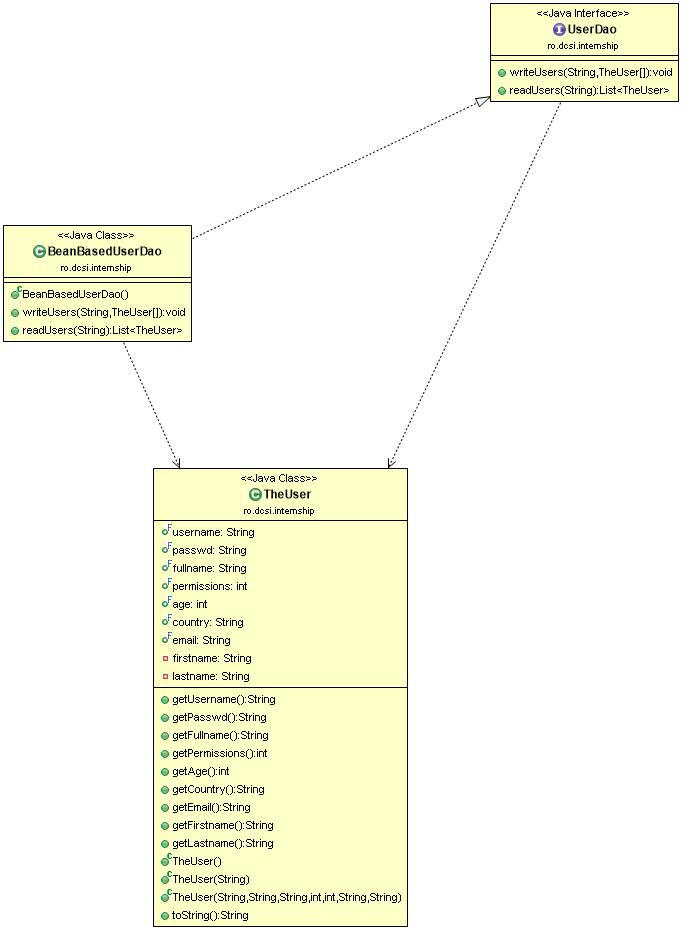
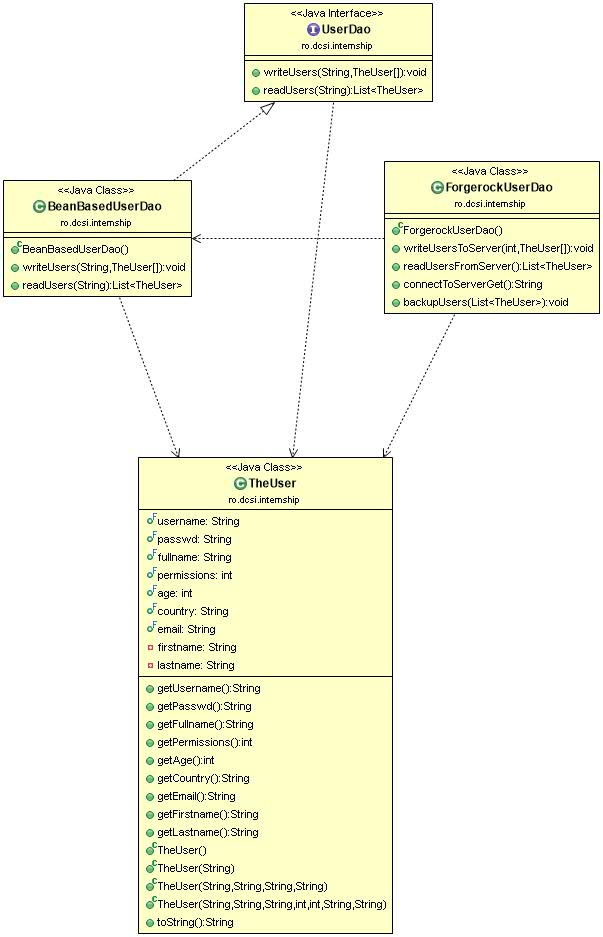
repetitive tests

diff --git a/src/main/java/ro/dcsi/internship/ForgerockUserDao.java b/src/main/java/ro/dcsi/internship/ForgerockUserDao.java
@@ -24,6 +24,15 @@ import java.util.List;
  * Created by Cristi on 27-Jul-17.
  */
 public class ForgerockUserDao {
+  private String serverUrl;
+  private String serverUsername;
+  private String serverPassword;
+
+  public ForgerockUserDao(String serverUrl, String serverUsername, String serverPassword) {
+    this.serverUrl = serverUrl;
+    this.serverUsername = serverUsername;
+    this.serverPassword = serverPassword;
+  }
 
   public void writeUsersToServer(int idStart, TheUser... users) {
     List<TheUser> theUserList = Arrays.asList(users);
@@ -31,8 +40,9 @@ public class ForgerockUserDao {
     int start = idStart;
     try {
       for (int i = start, j = 0; j < theUserList.size() && i < stop; j++, i++) {
+        String id = theUserList.get(j).id;
         JSONObject jsonObject = new JSONObject();
-        jsonObject.put("id", i);
+        jsonObject.put("id", id);
         jsonObject.put("mail", theUserList.get(j).getEmail());
         jsonObject.put("sn", theUserList.get(j).getLastname());
         jsonObject.put("givenName", theUserList.get(j).getFirstname());
@@ -40,15 +50,15 @@ public class ForgerockUserDao {
         String jsonResult = jsonObject.toString();
         StringEntity jsonEntity = new StringEntity(jsonResult);
 
-        String url = "http://localhost:8080/openidm/managed/user/" + i;
+        String url = serverUrl+"openidm/managed/user/" + id;
 
         HttpClient client = HttpClientBuilder.create().build();
         HttpPut request = new HttpPut(url);
         request.addHeader("Content-Type", "application/json");
         request.addHeader("Accept", "application/json");
         request.addHeader("If-None-Match", "*");
-        request.addHeader("X-OpenIDM-Username", "openidm-admin");
-        request.addHeader("X-OpenIDM-Password", "openidm-admin");
+        request.addHeader("X-OpenIDM-Username", serverUsername);
+        request.addHeader("X-OpenIDM-Password", serverPassword);
         request.addHeader("X-Requested-With", "Swagger-UI");
         request.setEntity(jsonEntity);
 
@@ -86,15 +96,15 @@ public class ForgerockUserDao {
   }
 
   public String connectToServerGet() {
-    String url = "http://localhost:8080/openidm/managed/user?_queryId=query-all";
+    String url = serverUrl+"/openidm/managed/user?_queryId=query-all";
 
     HttpClient client = HttpClientBuilder.create().build();
     HttpGet request = new HttpGet(url);
 
     request.addHeader("Accept", "application/json");
     request.addHeader("X-Requested-With", "Swagger-UI");
-    request.addHeader("X-OpenIDM-Username", "openidm-admin");
-    request.addHeader("X-OpenIDM-Password", "openidm-admin");
+    request.addHeader("X-OpenIDM-Username", serverUsername);
+    request.addHeader("X-OpenIDM-Password", serverPassword);
     HttpResponse response;
     String jsonResponse = "";
     try {

diff --git a/src/test/java/ro/dcsi/internship/ForgerockTest.java b/src/test/java/ro/dcsi/internship/ForgerockTest.java
@@ -3,6 +3,7 @@ package ro.dcsi.internship;
 import java.util.ArrayList;
 import java.util.List;
 
+import org.junit.Assert;
 import org.junit.Test;
 
 import com.github.javafaker.Faker;
@@ -19,13 +20,13 @@ public class ForgerockTest {
     BeanBasedUserDao controller = new BeanBasedUserDao();
     List<TheUser> existingUsers = controller.readUsers(target + "tempUsers.csv");
 
-    ForgerockUserDao forgerockUserDao = new ForgerockUserDao();
+    ForgerockUserDao forgerockUserDao = createDefaultServer();
     forgerockUserDao.backupUsers(existingUsers);
   }
 
   @Test
   public void testReadUsers() {
-    ForgerockUserDao forgerockUserDao = new ForgerockUserDao();
+    ForgerockUserDao forgerockUserDao = createDefaultServer();
     List<TheUser> theUserList = forgerockUserDao.readUsersFromServer();
 
     for (TheUser user : theUserList) {
@@ -35,7 +36,7 @@ public class ForgerockTest {
 
   @Test
   public void testWriteUsers() {
-    ForgerockUserDao forgerockUserDao = new ForgerockUserDao();
+    ForgerockUserDao forgerockUserDao = createDefaultServer();
     forgerockUserDao.writeUsersToServer(0, generateUsers(3).toArray(new TheUser[0]));
     forgerockUserDao.writeUsersToServer(3, generateUsers(3).toArray(new TheUser[0]));
     forgerockUserDao.writeUsersToServer(6, generateUsers(3).toArray(new TheUser[0]));
@@ -43,18 +44,29 @@ public class ForgerockTest {
 
   @Test
   public void mainTest() {
-    ForgerockUserDao forgerockUserDao = new ForgerockUserDao();
+    ForgerockUserDao forgerockUserDao = createDefaultServer();
     forgerockUserDao.writeUsersToServer(0, generateUsers(100).toArray(new TheUser[0]));
     List<TheUser> theUserList = forgerockUserDao.readUsersFromServer();
     forgerockUserDao.backupUsers(theUserList);
+  }
+  //TODO move outside. we test user not forge rock
+  @Test(timeout=1000)
+  public void testIdGeneration() {
+    TheUser user = new UserBuilder().build();
+    Assert.assertNotNull(user.id);
+  }
+
+  private ForgerockUserDao createDefaultServer() {
+    return new ForgerockUserDao("http://dcs-xps:8080/","openidm-admin","openidm-admin");
   }
 
   public List<TheUser> generateUsers(int n) {
     List<TheUser> theUserList = new ArrayList<>();
     Faker faker = new Faker();
     for (int i = 0; i < n; i++) {
-      TheUser user = new UserBuilder().setUsername(faker.name().username()).setFirstName(faker.name().firstName())
-          .setLastName(faker.name().lastName()).setEmail(faker.name().username() + "@gmail.com").builder();
+      TheUser user = new UserBuilder().
+          setUsername("u"+i+" - " + faker.name().username()).setFirstName(faker.name().firstName())
+          .setLastName(faker.name().lastName()).setEmail(faker.name().username() + "@gmail.com").build();
       theUserList.add(user);
     }
     return theUserList;

diff --git a/src/main/java/ro/dcsi/internship/TheUser.java b/src/main/java/ro/dcsi/internship/TheUser.java
@@ -1,11 +1,17 @@
 package ro.dcsi.internship;
 
+import java.util.UUID;
+
+import com.google.common.base.Preconditions;
 import com.opencsv.bean.CsvBindByName;
 
 //case class TheUser(username:String, passwd:String)
 //new TheUser(passwd="a",username="b'")
 
 public class TheUser {
+  public static String generateUserId() {
+    return UUID.randomUUID().toString();
+  }
 
   @CsvBindByName
   public final String username;
@@ -16,13 +22,13 @@ public class TheUser {
   public final int permissions;
   public final int age;
   @CsvBindByName
-  public final String country;
+  public final String id;
   @CsvBindByName
   public final String email;
   @CsvBindByName
-  private String firstname;
+  private final String firstname;
   @CsvBindByName
-  private String lastname;
+  private final String lastname;
 
   public String getUsername() {
     return username;
@@ -44,8 +50,8 @@ public class TheUser {
     return age;
   }
 
-  public String getCountry() {
-    return country;
+  public String getId() {
+    return id;
   }
 
   public String getEmail() {
@@ -67,36 +73,30 @@ public class TheUser {
   }
 
   public TheUser(String name) {
-    this(name, "", "", 0, 0, "", "");
+    this(name, "", "", "<no-email>");
   }
 
   public TheUser(String username, String firstname, String lastname, String email) {
-    this.username = username;
-    this.firstname = firstname;
-    this.lastname = lastname;
-    this.email = email;
-    this.passwd = "";
-    this.fullname = "";
-    this.permissions = 0;
-    this.age = 0;
-    this.country = "";
-
+    this(generateUserId(),username,"",firstname,lastname,"",0,0,email);
   }
 
-  public TheUser(String username, String passwd, String fullname, int permissions, int age, String country,
+  public TheUser(String id, String username, String passwd, String firstname, String lastname, String fullname, int permissions, int age,
       String email) {
     this.username = username;
     this.passwd = passwd;
     this.fullname = fullname;
+    this.firstname = firstname;
+    this.lastname = lastname;
     this.permissions = permissions;
     this.age = age;
-    this.country = country;
+    this.id = id;
     this.email = email;
+    Preconditions.checkNotNull(id);
   }
 
   public String toString() {
     return "TheUser{" + "username='" + username + '\'' + ", passwd='" + passwd + '\'' + ", fullname='" + fullname + '\''
-        + ", permissions=" + permissions + ", age=" + age + ", country='" + country + '\'' + ", email='" + email + '\''
+        + ", permissions=" + permissions + ", age=" + age + ", id='" + id + '\'' + ", email='" + email + '\''
         + ", firstname='" + firstname + '\'' + ", lastname='" + lastname + '\'' + '}';
   }
 }

diff --git a/src/main/java/ro/dcsi/internship/UserBuilder.java b/src/main/java/ro/dcsi/internship/UserBuilder.java
@@ -1,12 +1,14 @@
 package ro.dcsi.internship;
 
+import java.util.UUID;
+
 public class UserBuilder {
   private String username;
   private String passwd;
   private String fullname;
   private int permissions;
   private int age;
-  private String country;
+  private String id;
   private String email;
   private String firstname;
   private String lastname;
@@ -47,8 +49,8 @@ public class UserBuilder {
     return this;
   }
 
-  public UserBuilder setCountry(String country) {
-    this.country = country;
+  public UserBuilder setId(String country) {
+    this.id = country;
     return this;
   }
 
@@ -58,11 +60,9 @@ public class UserBuilder {
   }
 
   public TheUser build() {
-    return new TheUser(username, passwd, fullname, permissions, age, country, email);
+    if(id==null){
+      id = TheUser.generateUserId();
+    }
+    return new TheUser(id, username, passwd, firstname, lastname, fullname, permissions, age, email);
   }
-
-  public TheUser builder() {
-    return new TheUser(username, firstname, lastname, email);
-  }
-
 }

diff --git a/src/test/java/ro/dcsi/internship/AppTest.java b/src/test/java/ro/dcsi/internship/AppTest.java
@@ -128,7 +128,7 @@ public class AppTest {
       Integer permission = (Math.random() < 0.5) ? 0 : 1;
       Integer age = faker.number().numberBetween(0, 100);
       TheUser user = new UserBuilder().setUsername(faker.name().username()).setPasswd(faker.idNumber().valid())
-          .setPermissions(permission).setAge(age).setCountry(faker.address().country())
+          .setPermissions(permission).setAge(age).setId(faker.address().country())
           .setEmail(faker.name().username() + "@gmail.com").build();
       theUserList.add(user);
     }
